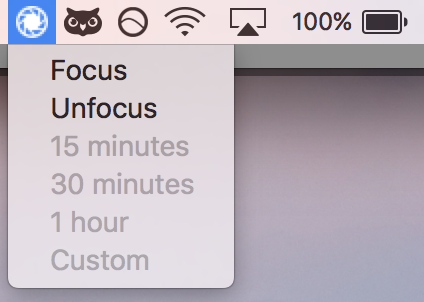
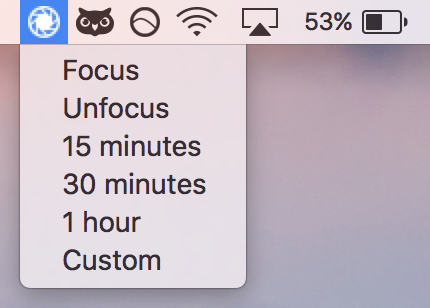
Basic timer functionality implemented. Working out bugs for the custom timer option

diff --git a/README.md b/README.md
@@ -10,7 +10,7 @@ This is a Hammerspoon configuration that allows you to specify distracting appli
 
 ### Prerequisites
 
-+ Hammerspoon (macOS only)
++ [Hammerspoon](http://www.hammerspoon.org) (macOS only)
 ### Usage
 
 Clone this repository and then add the following statement into your init.lua file:
@@ -37,4 +37,4 @@ At this current time this project is a minimum viable product, but many features
 
 ## Found any Bugs/Want to Contribute
 
-If you find any bugs or simply want to contribute please submit a pull request.
+If you find any bugs or simply want to contribute please submit a pull request or report an issue.
